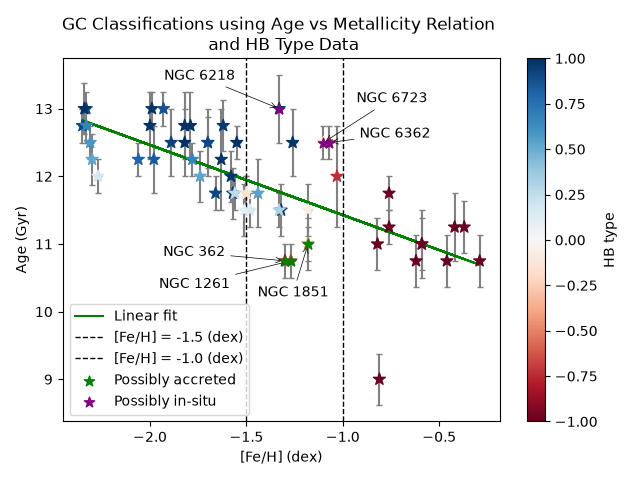
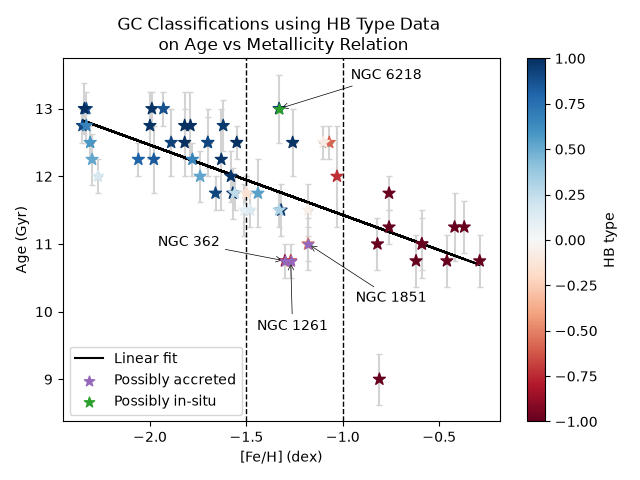
Final plots

diff --git a/src/AMR_plots/hbtype_plots.py b/src/AMR_plots/hbtype_plots.py
@@ -10,65 +10,57 @@ from adjustText import adjust_text
 vandenBergData = pd.read_csv("data/vandenBerg_table2.csv")
 
 # Plot Metallicity vs Age with errorbars
-plt.errorbar(
-    vandenBergData["FeH"],
-    vandenBergData["Age"],
-    yerr = vandenBergData["Age_err"],
-    fmt = '*', 
-    ecolor = 'lightgray',
-    color = 'gray',
-    markersize = 6,
-    capsize = 2
-    # label = 'Unresolved'
-)
-
-# Fit a linear curve then plot
-result = stats.linregress(vandenBergData["FeH"], vandenBergData["Age"])
-plt.plot(
-    vandenBergData["FeH"], result.slope * vandenBergData["FeH"] + result.intercept,
-    label='Linear fit', color = 'orange'
+plt.errorbar(vandenBergData["FeH"], vandenBergData["Age"], 
+             yerr = vandenBergData["Age_err"], fmt = '*', 
+              ecolor = 'lightgray', color = 'gray', markersize = 6, capsize = 2
 )
 
 # Add colourbar for HBType values 
-hbtype = plt.scatter(
-    vandenBergData["FeH"], vandenBergData["Age"],
-    c = vandenBergData["HBtype"], cmap = "RdBu", marker = '*', s = 80, zorder = 3
-)
+hbtype = plt.scatter(vandenBergData["FeH"], vandenBergData["Age"],
+    c = vandenBergData["HBtype"], cmap = "RdBu", marker = '*', s = 80, zorder = 3)
 plt.colorbar(hbtype, label="HB type")
 
-data = pd.read_csv("data/mergedData.csv")
-vb = data[data["Age"].notna()].copy() # Isolate just VandenBerg data
+# Fit a linear curve then plot
+result = stats.linregress(vandenBergData["FeH"], vandenBergData["Age"])
+plt.plot(vandenBergData["FeH"], result.slope * vandenBergData["FeH"] + result.intercept,
+    label='Linear fit', color = 'black'
+)
 
-# Isolate region between -1.5 and -1.0 metallicity (where branching is clearest)
-s = vb[(vb["FeH"] > -1.5) & (vb["FeH"] < -1.0)] 
+vandenBergData = pd.read_csv("data/mergedData.csv")
+# Isolate region between -1.5 and -1.0 metallicity
+s = vandenBergData[(vandenBergData["FeH"] > -1.5) & (vandenBergData["FeH"] < -1.0)] 
 # Add vertical lines at these thresholds
 plt.axvline(x=-1.5, color='black', linestyle='--', linewidth=1)
 plt.axvline(x=-1.0, color='black', linestyle='--', linewidth=1)
 
-# # Isolate and label upper and lower outliers from Metallicity-Age relation
-# accreted = s[(s["Age_residual"] < -2)]
-# inSitu = s[(s["Age_residual"] > 2)]
-# outliers = pd.concat([accreted, inSitu])
-
-# for name, x, y in zip(outliers["ID"], outliers["FeH"], outliers["Age"]):
-#     annot = plt.annotate(name, xy = (x,y), xytext = (5,5), textcoords = "offset points", arrowprops=dict(arrowstyle="->", color="black", lw=0.5))
-#     annot.draggable(True)
+# Identify accreted and in-situ candidates
+median = s["HBtype"].median()
+accreted = s[(s["Age_residual"] < -2) & (s["HBtype"] < median)]
+inSitu  = s[(s["Age_residual"] > 2) & (s["HBtype"] > median)]
 
 # Add labels and title
 plt.xlabel("[Fe/H] (dex)")
 plt.ylabel("Age (Gyr)")
-plt.title("Age vs Metallicity Relation with HB Type")
+plt.title("GC Classifications using HB Type Data \n on Age vs Metallicity Relation")
 
 # Add legend
-# plt.scatter(accreted["FeH"], accreted["Age"], color="C1", marker="*", s=60, zorder=4, label="Possibly accreted")
-# plt.scatter(inSitu["FeH"], inSitu["Age"], color="C0", marker="*", s=60, zorder=4, label="Possibly in-situ")
+plt.scatter(accreted["FeH"], accreted["Age"], color="C4", 
+            marker="*", s=60, zorder=4, label="Possibly accreted")
+plt.scatter(inSitu["FeH"], inSitu["Age"], color="C2", 
+            marker="*", s=60, zorder=4, label="Possibly in-situ")
 plt.legend(loc="lower left")
+
+outliers = pd.concat([accreted, inSitu])
+for name, x, y in zip(outliers["ID"], outliers["FeH"], outliers["Age"]):
+    annot = plt.annotate(name, xy = (x,y), xytext = (5,5), textcoords = "offset points", arrowprops=dict(arrowstyle="->", color="black", lw=0.5))
+    annot.draggable(True)
 
 # Show and save
 plt.tight_layout()
 # plt.savefig("Age_vs_Metallicity_HBType.png")
 plt.show()
 
+# data = pd.read_csv("data/mergedData.csv")
 # # Add classifications as Classification_HBType to mergedData.csv
 # for i in range(len(data)):
 #     ID = data.loc[i, "ID"]

diff --git a/src/AMR_plots/age_metallicity_plots.py b/src/AMR_plots/age_metallicity_plots.py
@@ -5,19 +5,14 @@ import pandas as pd
 from scipy import stats
 from scipy.signal import find_peaks
 
-# # Plot vandenBerg data with error in age, using separate colours for different methods
-# # Read data from csv file
+# Plot vandenBerg data with error in age
+# Read data from csv file
 # vandenBergData = pd.read_csv("data/vandenBerg_table2.csv")
 
 # # Plot Metallicity vs Age with errorbars
-# plt.errorbar(
-#     vandenBergData["FeH"],
-#     vandenBergData["Age"],
-#     yerr = vandenBergData["Age_err"],
-#     fmt = '*', 
-#     ecolor = 'gray',
-#     markersize = 6,
-#     capsize = 2,
+# plt.errorbar(vandenBergData["FeH"], vandenBergData["Age"], 
+#              yerr = vandenBergData["Age_err"], fmt = '*', 
+#               ecolor = 'gray', markersize = 6, capsize = 2
 # )
 
 # # Add labels and title
@@ -66,20 +61,9 @@ from scipy.signal import find_peaks
 # accreted = vandenBergData[(vandenBergData["Classification_AMR"] == 'Accreted')]
 # unresolved = vandenBergData[(vandenBergData["Classification_AMR"] == 'Unresolved')]
 
-# plt.scatter(
-#     inSitu["FeH"], inSitu["Age_residual"],
-#     label='In situ'
-# )
-
-# plt.scatter(
-#     accreted["FeH"], accreted["Age_residual"],
-#     label='Accreted'
-# )
-
-# plt.scatter(
-#     unresolved["FeH"], unresolved["Age_residual"],
-#     label='Unresolved'
-# )
+# plt.scatter(inSitu["FeH"], inSitu["Age_residual"], label='In situ')
+# plt.scatter(accreted["FeH"], accreted["Age_residual"], label='Accreted')
+# plt.scatter(unresolved["FeH"], unresolved["Age_residual"], label='Unresolved')
 
 # plt.xlabel("[Fe/H] (dex)")
 # plt.ylabel(r"Normalised Age Residual ($\sigma$)")
@@ -112,14 +96,14 @@ plt.errorbar(
 # Add labels and title
 plt.xlabel("[Fe/H] (dex)")
 plt.ylabel("Age (Gyr)")
-plt.title("GC Classifications on Age vs Metallicity Relation")
+plt.title("GC Classifications using Residuals \n on Age vs Metallicity Relation")
 # plt.savefig("Age_vs_Metallicity.png")
 
 # Fit a linear curve then plot
 result = stats.linregress(vandenBergData["FeH"], vandenBergData["Age"])
 plt.plot(
     vandenBergData["FeH"], result.slope * vandenBergData["FeH"] + result.intercept,
-    label='Linear fit'
+    label='Linear fit', color = 'C2'
 )
 
 # Colour based on classification
@@ -147,7 +131,7 @@ plt.scatter(
 
 outliers = pd.concat([accreted, inSitu])
 for name, x, y in zip(outliers["#NGC"], outliers["FeH"], outliers["Age"]):
-    if (name != 'Pal12'):
+    if (name != 'Pal 12'):
         name = 'NGC ' + str(name)
     annot = plt.annotate(name, xy = (x,y), xytext = (5,5), textcoords = "offset points", arrowprops=dict(arrowstyle="->", color="black", lw=0.5))
     annot.draggable(True)

diff --git a/src/AMR_plots/z_plots.py b/src/AMR_plots/z_plots.py
@@ -25,7 +25,7 @@ plt.errorbar(
 result = stats.linregress(vandenBergData["FeH"], vandenBergData["Age"])
 plt.plot(
     vandenBergData["FeH"], result.slope * vandenBergData["FeH"] + result.intercept,
-    label='Linear fit', color = 'orange'
+    label='Linear fit', color = 'C2'
 )
 
 # Add colourbar for |Z|
@@ -35,12 +35,15 @@ plt.plot(
 #                 cmap = "viridis", marker = "*", s=80, zorder = 3)
 # plt.colorbar(z, label="|Z| (kpc)")
 
-data = pd.read_csv("data/mergedData.csv")
-vb = data[data["Age"].notna()].copy() # Isolate just VandenBerg data
+vandenBergData = pd.read_csv("data/mergedData.csv")
 
-# Isolate and label upper and lower outliers from Metallicity-Age relation
-accreted = vb[(vb["Age_residual"] < -2) & (vb["Z"].abs() > 3)]
-inSitu = vb[(vb["Age_residual"] > 2) & (vb["Z"].abs() <= 3)]
+# Isolate accreted candidates based on |Z| > 3 and AMR residual criteria
+# Isolate in-situ candidates based on |Z| <= 3 and AMR residual criteria
+accreted = vandenBergData[
+    (vandenBergData["Age_residual"] < -2) & (vandenBergData["Z"].abs() > 3)]
+inSitu = vandenBergData[
+    (vandenBergData["Age_residual"] > 2) & (vandenBergData["Z"].abs() <= 3)]
+
 outliers = pd.concat([accreted, inSitu])
 
 for name, x, y in zip(outliers["ID"], outliers["FeH"], outliers["Age"]):

diff --git a/src/AMR_plots/gcr_plots.py b/src/AMR_plots/gcr_plots.py
@@ -25,7 +25,7 @@ plt.errorbar(
 result = stats.linregress(vandenBergData["FeH"], vandenBergData["Age"])
 plt.plot(
     vandenBergData["FeH"], result.slope * vandenBergData["FeH"] + result.intercept,
-    label='Linear fit', color = 'orange'
+    label='Linear fit', color = 'C2'
 )
 
 # # Add colourbar for R_G values 
@@ -35,12 +35,15 @@ plt.plot(
 # )
 # plt.colorbar(rg, label="Galactocentric Radius (kpc)")
 
-data = pd.read_csv("data/mergedData.csv")
-vb = data[data["Age"].notna()].copy() # Isolate just VandenBerg data
+vandenBergData = pd.read_csv("data/mergedData.csv")
+# Isolate accreted candidates based on R_G > 10 and AMR residual criteria
+# Isolate in-situ candidates based on R_G <= 10 and AMR residual criteria
+accreted = vandenBergData[
+    (vandenBergData["Age_residual"] < -2) & (vandenBergData["R_G"].abs() > 10)]
+inSitu = vandenBergData[
+    (vandenBergData["Age_residual"] > 2) & (vandenBergData["R_G"].abs() <= 10)]
 
-# Isolate and label upper and lower outliers from Metallicity-Age relation
-accreted = vb[(vb["Age_residual"] < -2) & (vb["R_G"].abs() > 10)]
-inSitu = vb[(vb["Age_residual"] > 2) & (vb["R_G"].abs() <= 10)]
+
 outliers = pd.concat([accreted, inSitu])
 
 for name, x, y in zip(outliers["ID"], outliers["FeH"], outliers["Age"]):
